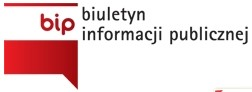
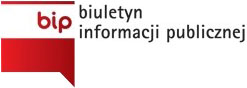
reworked responsively footer contact section

Changed region(s): [[0.0, 0.0, 0.9919, 1.0], [0.8502, 0.9545, 0.9069, 1.0]]

diff --git a/Components/Molecules/FooterContactInfo/FooterContactInfo.js b/Components/Molecules/FooterContactInfo/FooterContactInfo.js
@@ -1,0 +1,58 @@
+import { BsCalendarDateFill, BsFillTelephoneFill } from 'react-icons/bs';
+import { FiMapPin } from 'react-icons/fi';
+import { StyledSection } from './FooterContactInfo.styles';
+import BipButton from 'Components/Atoms/BipButton/BipButton';
+
+const FooterContactInfo = () => (
+  <StyledSection className="nav-contact-details">
+    <ul className="flex-list">
+      <li>
+        <div className="flex-wrapper">
+          <div className="icon-wrapper icon-wrapper--pin">
+            <FiMapPin />
+          </div>
+          <div className="text-wrapper">
+            <h3>Godziny otwarcia</h3>
+            <p>Poniedziałek - Piątek</p>
+            <p>6:00 - 16:00</p>
+          </div>
+        </div>
+      </li>
+      <li>
+        <div className="flex-wrapper">
+          <div className="icon-wrapper">
+            <BsCalendarDateFill />
+          </div>
+          <div className="text-wrapper">
+            <h3>Adres</h3>
+            <p>Żłobek Miejski</p>
+            <p>22-300 Krasnystaw ul. Poniatowskiego 48</p>
+          </div>
+        </div>
+      </li>
+      <li>
+        <div className="flex-wrapper">
+          <div className="icon-wrapper">
+            <BsFillTelephoneFill />
+          </div>
+          <div className="text-wrapper">
+            <h3>Kontakt</h3>
+            <p>tel. 123 456 789 - dyrektor</p>
+            <p>tel. 123 456 789 - sekretariat</p>
+          </div>
+        </div>
+      </li>
+      <li>
+        <section className="nav-bip-wrapper">
+          <h3>Bądź z nami</h3>
+          <p>Informacje i aktualności </p>
+          <div className="bip-button-wrapper">
+            <BipButton />
+          </div>
+        </section>
+      </li>
+    </ul>
+  </StyledSection>
+);
+
+export default FooterContactInfo;

diff --git a/Components/Molecules/FooterContactInfo/FooterContactInfo.styles.js b/Components/Molecules/FooterContactInfo/FooterContactInfo.styles.js
@@ -1,0 +1,76 @@
+import styled from 'styled-components';
+
+export const StyledSection = styled.section`
+  color: ${({ theme }) => theme.color.textDarkerGray};
+  margin-block: 2rem 1.5rem;
+  font-family: var(--font-primary);
+  width: 18rem;
+  @media screen and (min-width: 1500px) {
+    width: 34rem;
+  }
+  .flex-list {
+    display: flex;
+    flex-direction: column;
+    align-items: flex-start;
+    gap: 1rem;
+    @media screen and (min-width: 1500px) {
+      flex-direction: row;
+      flex-wrap: wrap;
+      row-gap: 3rem;
+      li {
+        flex: 1 0 47%;
+      }
+    }
+    li {
+      /* Typography for bip and contact */
+      h3 {
+        font-size: 28px;
+        font-weight: 500;
+      }
+      p {
+        font-size: 16px;
+      }
+
+      & > .flex-wrapper {
+        display: flex;
+        align-items: baseline;
+        gap: 0.5rem;
+        .icon-wrapper {
+          flex-basis: 1rem;
+          svg {
+            color: ${({ theme }) => theme.color.pink};
+            font-size: 1.5rem;
+          }
+          &--pin {
+            svg {
+              font-size: 1.625rem;
+            }
+          }
+        }
+        .text-wrapper {
+          display: flex;
+          flex-direction: column;
+          align-items: flex-start;
+        }
+      }
+      /* BIP */
+      .nav-bip-wrapper {
+        border-top: 1px solid #aaa;
+        width: 100%;
+        margin-top: 0.25rem;
+        padding-top: 1rem;
+        margin-left: 1.75rem;
+        @media screen and (min-width: 1400px) {
+          border: none;
+          padding-top: 0;
+        }
+        .bip-button-wrapper {
+          position: relative;
+          aspect-ratio: 3;
+          width: 75%;
+          margin-top: 0.75rem;
+        }
+      }
+    }
+  }
+`;

diff --git a/Components/Organisms/Footer/Footer.js b/Components/Organisms/Footer/Footer.js
@@ -1,24 +1,13 @@
-import BipButton from 'Components/Atoms/BipButton/BipButton';
 import FbButton from 'Components/Atoms/FbButton/FbButton';
 import Map from 'Components/Atoms/Map/Map';
-import MainLogo from 'Components/Atoms/MainLogo/MainLogo';
-import NavContactInfo from 'Components/Molecules/NavContactInfo/NavContactInfo';
+import FooterContactInfo from 'Components/Molecules/FooterContactInfo/FooterContactInfo';
 import { StyledFooter } from './Footer.styles';
-import CallMobileButton from 'Components/Atoms/CallMobileButton/CallMobileButton';
 
 const Footer = props => (
   <StyledFooter>
     <div className="flex-wrapper max-width">
       <div className="footer-left">
-        <div className="nav-logo-wrapper">
-          <MainLogo />
-        </div>
-        <NavContactInfo />
-        <section className="nav-bip-wrapper">
-          <h2>Bądź z nami</h2>
-          <p>Informacje i aktualności </p>
-          <BipButton />
-        </section>
+        <FooterContactInfo />
       </div>
       <div className="footer-right">
         <Map />

diff --git a/Components/Organisms/Footer/Footer.styles.js b/Components/Organisms/Footer/Footer.styles.js
@@ -13,35 +13,6 @@ export const StyledFooter = styled.footer`
       justify-content: center;
       gap: 5rem;
     }
-    .footer-left {
-      .nav-logo-wrapper {
-        position: relative;
-        width: 10rem;
-        margin-inline: auto;
-      }
-      .nav-bip-wrapper {
-        border-block: 1px solid #ccc;
-        padding-block: 1.5rem;
-        padding-left: 2.25rem;
-        color: ${({ theme }) => theme.color.gray500};
-        @media screen and (min-width: 700px) {
-          border-bottom: none;
-        }
-        h2 {
-          font-family: var(--font-primary);
-          line-height: 1;
-        }
-        p {
-          font-family: var(--font-secondary);
-        }
-        .nav-bip-image-wrapper {
-          margin-top: 0.75rem;
-          position: relative;
-          width: 12rem;
-          aspect-ratio: 2.73;
-        }
-      }
-    }
 
     .footer-right {
       display: none;

diff --git a/Components/Organisms/NurseryDescription/NurseryDescription.styles.js b/Components/Organisms/NurseryDescription/NurseryDescription.styles.js
@@ -50,7 +50,7 @@ export const StyledArticle = styled.article`
       line-height: 1.5;
       letter-spacing: 1px;
       @media screen and (min-width: 1440px) {
-        line-height: 1.8;
+        line-height: 2;
       }
     }
   }

diff --git a/Components/Templates/HomeTemplate/HomeTemplate.js b/Components/Templates/HomeTemplate/HomeTemplate.js
@@ -3,7 +3,7 @@ import Header from 'Components/Organisms/Header/Header';
 
 const HomeTemplate = ({ children }) => (
   <>
-    <Header />
+    {/* <Header /> */}
     <main>{children}</main>
     <Footer />
   </>
